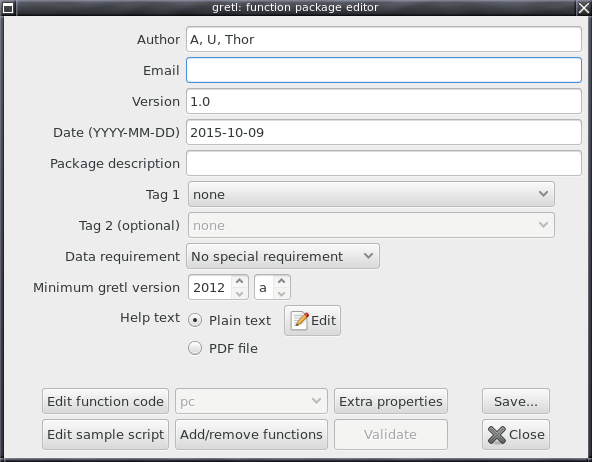
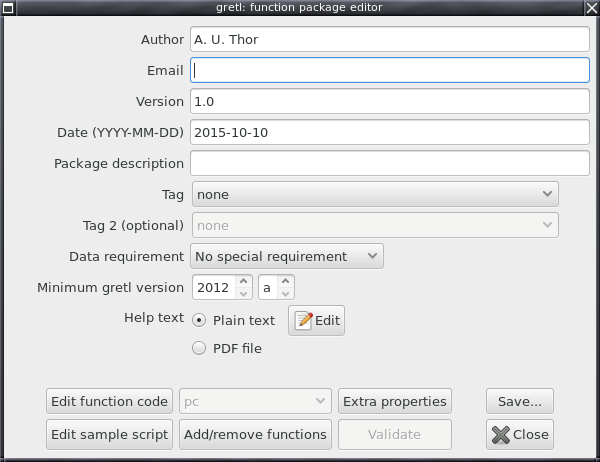
more on revision of pkgbook (tags and other recent GUI changes)

diff --git a/doc/tex/pkgbook.tex b/doc/tex/pkgbook.tex
@@ -1123,13 +1123,9 @@ packages'' menu.  This menu contains four items: ``On local machine'',
 ``On server'', ``Edit package'' and ``New package''.
 
 Select ``New package''.  In the first dialog to appear (see
-Figure~\ref{fig:startpkg} you must specify:
-
-\begin{itemize}
-\item The name of the package.
-\item One or more public functions to package.
-\item Zero or more ``private'' helper functions.
-\end{itemize}
+Figure~\ref{fig:startpkg}) you must specify the name of the
+package, one or more public functions to package, and 
+zero or more ``private'' helper functions.
 
 \begin{figure}[htbp]
   \centering
@@ -1142,7 +1138,7 @@ Public functions are directly available to users; private functions
 are part of the ``behind the scenes'' mechanism in a function
 package. So, at this point, you select the \cmd{pc} function from the
 left-hand panel and put it into the ``Public functions'' box. You also
-give the package a name. Leave off the \texttt{.gfn} extension, that
+give the package a name. Leave off the \texttt{gfn} extension, that
 will be added as required; here we name the package \texttt{pcchange}.
  
 
@@ -1182,18 +1178,21 @@ package). See section~\ref{sec:common-sample} for details on what's
 required of a sample script.
 
 At this point you should also consider the metadata items
-\textsf{Minimum gretl version} and \textsf{Data requirement}.  You can
-read all about these in section~\ref{sec:spec-basic}. For the moment,
-suffice it to say that since the function code above doesn't do
-anything exotic you may be OK leaving the minimum gretl version at its
-default value, though if you want to check when some function or
-command was introduced you can look at the gretl
-ChangeLog.\footnote{See
+\textsf{Minimum gretl version}, \textsf{Data requirement} and
+\textsf{Tag}.  You can read all about these in
+section~\ref{sec:spec-basic}. For the moment, suffice it to say that
+since the function code above doesn't do anything exotic you may be OK
+leaving the minimum gretl version at its default value, though if you
+want to check when some function or command was introduced you can
+look at the gretl ChangeLog.\footnote{See
   \url{http://gretl.sourceforge.net/ChangeLog.html}.} As for the data
 requirement, well, percentage changes from observation to observation
 probably don't make sense for cross-sectional data (which in most
 cases can be ordered any old how, arbitrarily), so you might pull down
-the list of options and select ``Time-series data.''
+the list of options and select ``Time-series data.'' And as regards
+the tag for this package, the most general category, ``C10 Econometric
+and Statistical Methods: General'' is probably the only one that's
+applicable.
 
 Clicking the \textsf{Save} button in the package editor window brings
 up a little menu. For the present, it's just the first item,
@@ -1202,12 +1201,7 @@ your package specification at this point (e.g.\ no help text), you'll
 get a nag box when you select this item. Otherwise you'll see a dialog
 where you get to choose whether to save the \textsf{gfn} file to an
 ``installed'' location (see section~\ref{sec:installed}) or in some
-other place; you are also prompted for a name for the package
-(Figure~\ref{fig:gfnsave}). The package-name entry box will offer the
-names of any suitable public functions as candidates (here \textsf{pc}
-is the default). But you can type in some other name, and recall that
-in our example the package should be called \textsf{pcchange} for
-consistency with the sample script.
+other place (Figure~\ref{fig:gfnsave}).
 
 \begin{figure}[htbp]
   \centering
@@ -2278,7 +2272,7 @@ that can be generated by \app{make}.  By the way, using the
 means that it will not seek confirmation, nor will it complain if the
 file to be deleted doesn't actually exist.\footnote{This rule contain
   the only unix-specific idiom in the Makefile: under \texttt{cmd.exe}
-  you would have to substitute \texttt{del} for \texttt{rm -f}.}
+  you would substitute \texttt{del} for \texttt{rm -f}.}
 
 If the target of a Makefile rule is the name of a file, and the rule
 has dependencies, then the instructions will be carried out if and
@@ -2305,9 +2299,9 @@ the first (or only) dependency of a rule.
 Makefile rules are applied recursively---this is what makes \app{make}
 so powerful. So, for example, ``\texttt{make install}'' will not fail
 just because the \textsf{zip} file has not yet been built, so long as
-the Makefile contains a recipe for building the latter (as of course
-it does). By the same token, if you invoke the \texttt{install} target
-when the \textsf{zip} file already exists, it will be checked
+the Makefile contains a recipe for building the latter (which of
+course it does). By the same token, if you invoke the \texttt{install}
+target when the \textsf{zip} file already exists, it will be checked
 automatically for up-to-dateness and rebuilt if necessary---which also
 means that the \textsf{gfn} and PDF files will be checked and possibly
 rebuilt.
@@ -2404,19 +2398,21 @@ Figure~\ref{fig:package_editor}).
     of Economic Literature} (hence known as \textit{JEL tags}). This
   is to help users who are searching on the gretl server for packages
   that will perform some specific function. If you supply more than
-  one tag, the tags should be separated by spaces.
+  one tag, the tags should be separated by spaces. You can find a
+  listing of the available tags at
+  \url{http://ricardo.ecn.wfu.edu/gretl/cgi-bin/tags.cgi}.
 
   \ttusage{tags = C13}
 
- \item \texttt{min-version} (required): The minimum gretl version on
-   which the package is supported, format \textsf{M.N.P} (three
-   numbers separated by two dots). Ideally, this should truly be the
-   first gretl version on which the package will run OK, but if in
-   doubt it is preferable to specify a later version (users can
-   always update) rather than an earlier one (on which the package
-   might fail and give the user a bad impression).
+\item \texttt{min-version} (required): The identifier for the minimum
+  gretl version on which the package is supported.  Ideally, this
+  should truly be the first gretl version on which the package will
+  run OK, but if in doubt it is preferable to specify a later version
+  (users can always update) rather than an earlier one (on which the
+  package might fail and give the user a bad impression). See
+  section~\ref{sec:versioning} for further details.
 
-   \ttusage{min-version = 1.9.12}
+   \ttusage{min-version = 2012a}
 
 \end{description}
 
@@ -2648,6 +2644,44 @@ GUI package editor it appears under the \textsf{Data files} tab in the
 
 \end{description}
 
+\section{A note on gretl versioning}
+\label{sec:versioning}
+
+As time passes this note should become redundant, but as of this
+writing (October 2015) gretl is in transition between two versioning
+schemes.
+
+For many years, gretl version identifiers have taken the form
+\texttt{M.N.P}: three integers with the traditional interpretation
+\texttt{M} = ``major version'', \texttt{N} = ``minor version'',
+\texttt{P} = ``patch-level''. However, at the biennial gretl
+conference in Berlin in the summer of 2015 it was suggested (and
+broadly accepted) that this scheme doesn't make a great deal of sense
+for gretl releases (although it does make good sense for software
+\texttt{libraries} that are widely used by other programs, for reasons
+that we needn't go into here---but see \url{http://semver.org/} if
+you're interested).
+
+The idea is that the development of gretl is a more or less continuous
+process, and it's more relevant to identify gretl releases by the year
+of the release (e.g.\ 2015) plus a letter to represent the release
+sequence in any given year: so \texttt{2015a}, \texttt{2015b}, and so
+on. (Not that we're devoted to copying anyone else, but this is how
+\textsf{Matlab} currently identifies its releases.)
+
+For authors of function packages the question arises: given this
+change, how should you identify the minimal gretl version with which
+your function package is compatible?
+
+In a package \textsf{spec} file the best policy is to use the
+``historical'' identifiers for gretl releases up to 1.10.2, and the
+new style for gretl \texttt{2015d} onward. In the GUI package editor
+only the new style is supported. The gretl ChangeLog
+(\url{http://gretl.sourceforge.net/ChangeLog.html}) can be used to map
+from historical identifiers to their new-style equivalents. For
+example 1.9.8 maps to \texttt{2012a} (being the first release in
+2012).
+
 \chapter{Zip package details}
 \label{chap:zipfile}
 
@@ -2801,40 +2835,6 @@ button (open folder icon) and menu item become active. Selecting this
 item opens a file dialog pointing at the examples directory, from
 which you can open any scripts or datafiles that are provided. These
 are intended to supplement the required sample script.
-
-\chapter{Gretl versions}
-\label{chap:gretl-versions}
-
-As time passes this addendum should become redundant, but as of this
-writing (in the last quarter of 2015) gretl is in transition between
-two versioning schemes.
-
-For many years, gretl version identifiers have taken the form
-\texttt{M.N.P}: three integers with the traditional interpretation
-\texttt{M} = ``major version'', \texttt{N} = ``minor version'',
-\texttt{P} = ``patch-level''. However, at the biennial gretl
-conference in Berlin in the summer of 2015 it was suggested (and
-broadly accepted) that this scheme doesn't make a great deal of sense
-for gretl releases (although it does make good sense for software
-\texttt{libraries} that are widely used by other programs, for reasons
-that we needn't go into here---but see \url{http://semver.org/} if
-you're interested).
-
-The idea is that the development of gretl is a more or less continuous
-process, and it's more relevant to identify gretl releases by the year
-of the release (e.g.\ 2015) plus a letter to represent the release
-sequence in any given year: so \texttt{2015a}, \texttt{2015b}, and so
-on. (Not that we're devoted to copying anyone else, but this is how
-\textsf{Matlab} currently identifies its releases.)
-
-For most users of gretl the change in versioning scheme should be of
-no consequence, but for authors of function packages the question
-arises: how should I identify the minimal gretl version with which my
-function package is compatible?
-
-
-
-
 
 
 \bibliography{gretl}

diff --git a/gui2/fnsave.c b/gui2/fnsave.c
@@ -2273,7 +2273,7 @@ static void add_tag_selectors (GtkWidget *tbl, int i,
 	int k = 0;
 
 	if (j == 0) {
-	    tmp = gtk_label_new(_("Tag 1"));
+	    tmp = gtk_label_new(_("Tag"));
 	} else {
 	    tmp = gtk_label_new(_("Tag 2 (optional)"));
 	}
